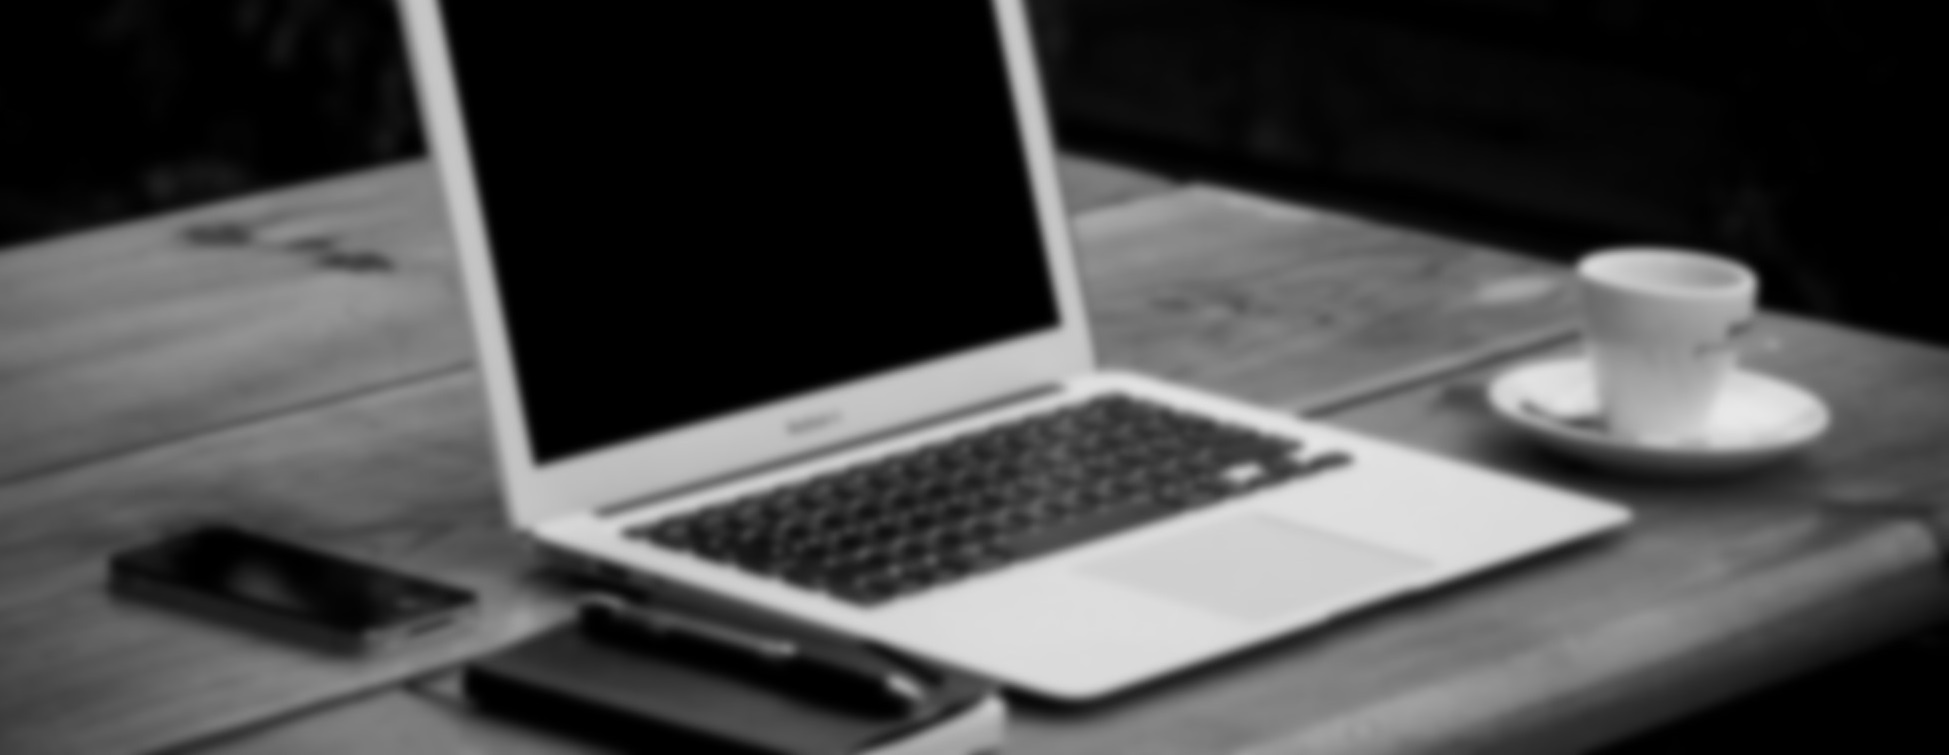
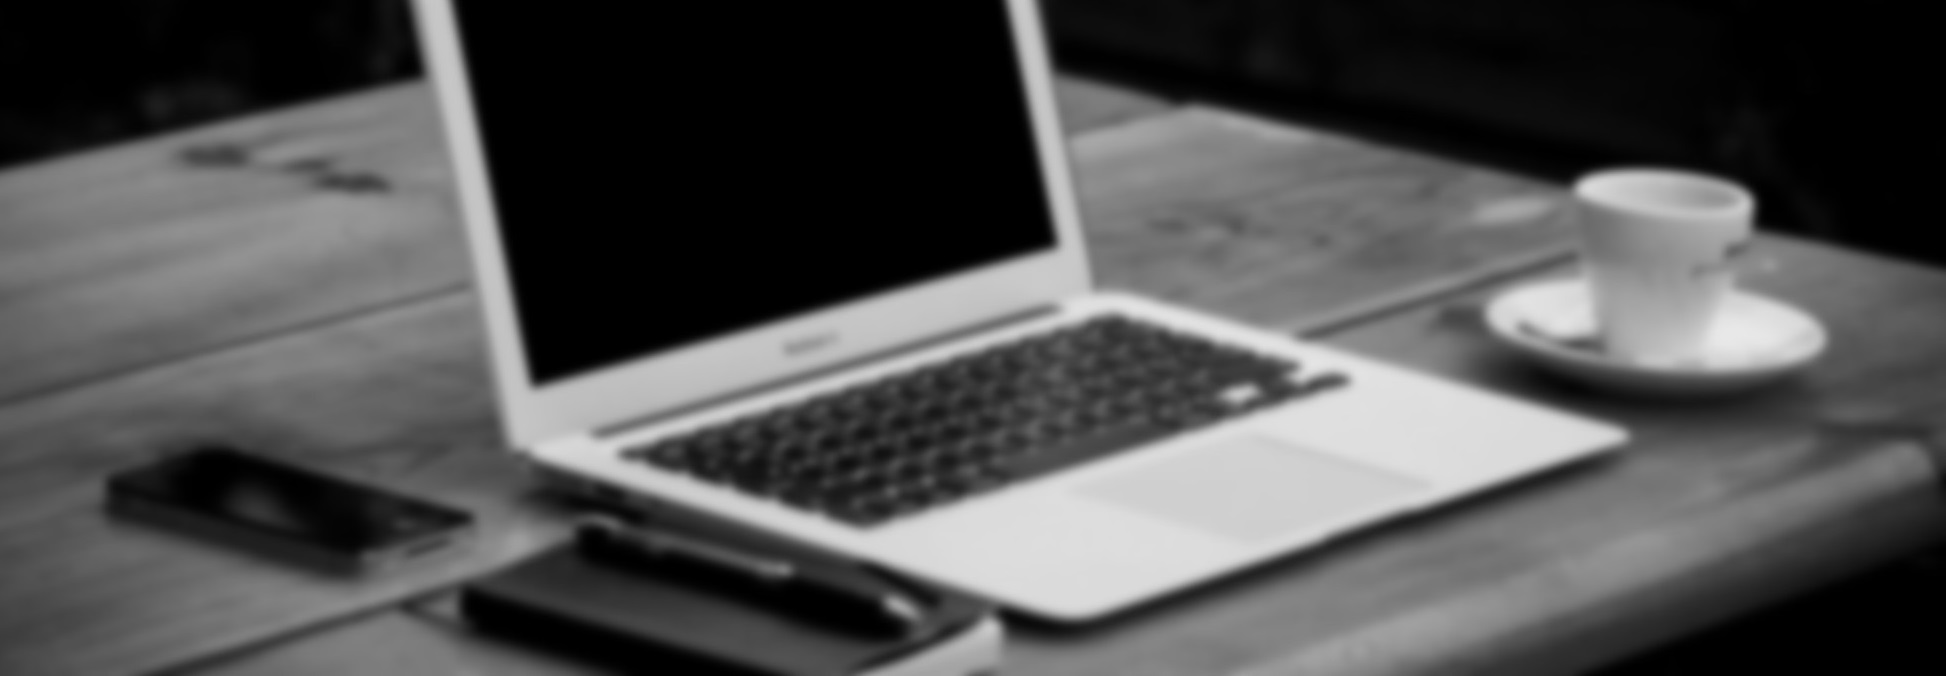
background-fix

Changed region(s): [[0.0, 0.0, 1.0, 0.9941], [0.2775, 0.9009, 0.3083, 0.932], [0.1233, 0.932, 0.1542, 0.963]]

diff --git a/css/content.scss b/css/content.scss
@@ -5,7 +5,7 @@
 $primary-red: #ef4747;
 
 body{
-    background-image: url("../img/background_index_tmp_2.jpg");
+    background-image: url("../img/background_index_tmp_3.jpg");
     background-repeat: no-repeat;
     background-position:center top;
     font-family: 'Montserrat', sans-serif;
